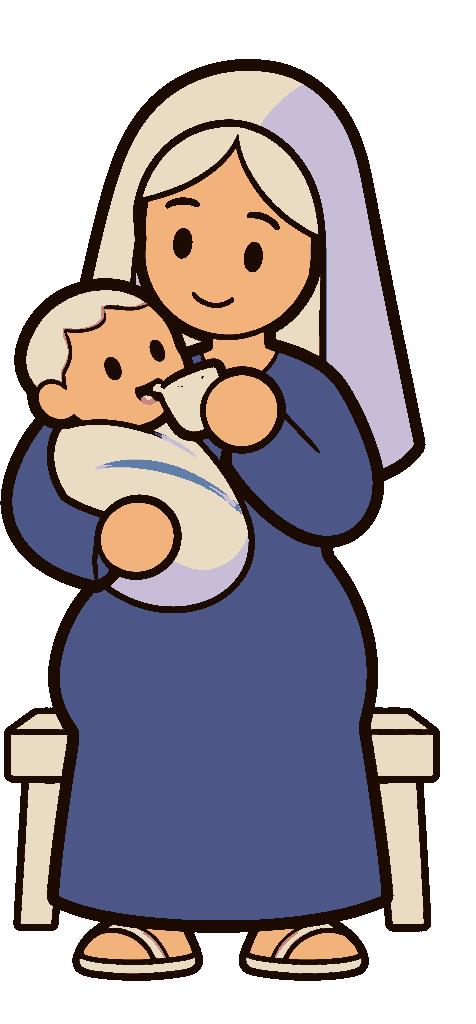
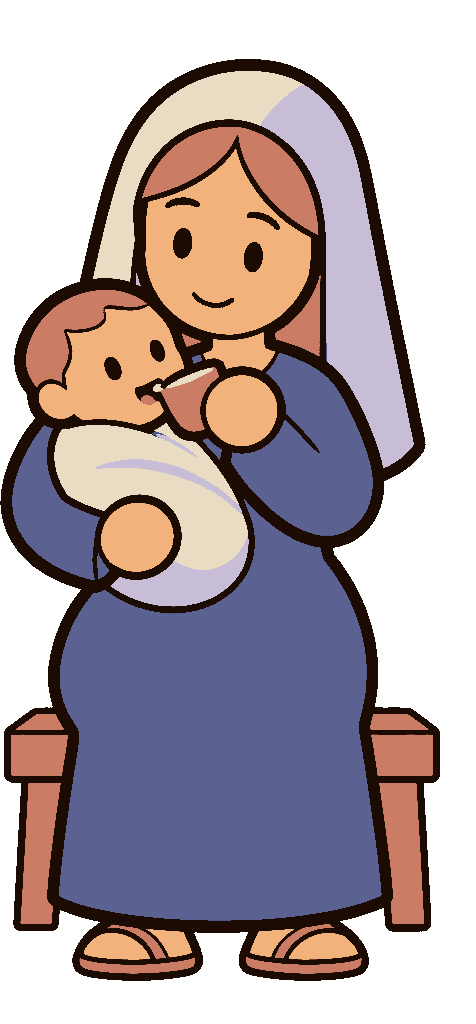
fix(animations): the mother's hair, the baby's hair and her stool take her own terracotta, her dress its drawn blue, and her head share her veil over her bare head, each measured on her sheet; act 1's palettes take a look's hex or a measured paint read again in its box (critique 1, item 2)

diff --git a/apps/animations/src/films/in-its-order/storybook/palettes.test.ts b/apps/animations/src/films/in-its-order/storybook/palettes.test.ts
@@ -1,9 +1,23 @@
 import * as BunServices from '@effect/platform-bun/BunServices';
-import { decodePng } from '@manna/film/tools';
-import { Effect, FileSystem, Option } from 'effect';
-import { describe, expect, it } from 'effect-bun-test';
-import { deltaE, measuredInk, rgbOfHex } from '../../../library/storybook/sheet.ts';
-import { PALETTES } from './palettes.ts';
+import { decodePng, type Raster } from '@manna/film/tools';
+import { Effect, FileSystem, Option, Schema } from 'effect';
+import { describe, expect, it, test } from 'effect-bun-test';
+import {
+  clearBackground,
+  cropOf,
+  deltaE,
+  drawnNearestOf,
+  groundOf,
+  measuredInk,
+  paintsOf,
+  rgbOfHex,
+  snapped,
+  tidiedReport,
+  withProps,
+} from '../../../library/storybook/sheet.ts';
+import { RecordJson } from '../../../library/storybook/store.ts';
+import { SHEET_CELLS } from './cells.ts';
+import { MEASURED, type MeasuredPaint, measureMiss, PALETTES, unsourced } from './palettes.ts';
 import { SHEETS } from './sheets.ts';
 
 /** The film's own roles' folders, then the library's: where a member's `cast-sheet/` lies (`castFolder`'s order). */
@@ -31,26 +45,150 @@ const looksOf = Effect.fn('Act1Palettes.looksOf')(function* (member: string) {
   return looks.join('\n').toLowerCase();
 });
 
+/** A PNG of a member's folder, decoded. */
+const pngIn = Effect.fn('Act1Palettes.pngIn')(function* (member: string, file: string) {
+  const fs = yield* FileSystem.FileSystem;
+  return yield* Effect.fromResult(
+    decodePng(yield* fs.readFile(`${yield* folderOf(member)}/${file}`)),
+  );
+});
+
 describe('act 1 palettes', () => {
   for (const [member, palette] of PALETTES)
     it.effect(
-      `${member}: every paint is a hex its look (or the base its look names) gives, and the ink is measured on the first ref of its first sheet`,
+      `${member}: every paint, and every prop its sheets paint, is a hex its look (or the base its look names) gives or a measured paint, and the ink is measured on the first ref of its first sheet`,
       () =>
         Effect.gen(function* () {
-          const fs = yield* FileSystem.FileSystem;
           const look = yield* looksOf(member);
-          const hexes = palette.parts.flatMap((p) => [
+          const props = SHEETS.filter((s) => s.member === member).flatMap((s) => s.props ?? []);
+          const hexes = [...palette.parts, ...props].flatMap((p) => [
             p.base,
             ...Option.toArray(Option.fromUndefinedOr(p.shade)),
           ]);
-          expect(hexes.filter((h) => !look.includes(h.toLowerCase()))).toEqual([]);
+          expect(unsourced(member, hexes, look, MEASURED)).toEqual([]);
           const first = SHEETS.find((s) => s.member === member)?.refs[0] ?? 'no ref';
-          const kept = yield* Effect.fromResult(
-            decodePng(
-              yield* fs.readFile(`${yield* folderOf(member)}/cast-sheet/views/${first}.png`),
-            ),
-          );
+          const kept = yield* pngIn(member, `cast-sheet/views/${first}.png`);
           expect(deltaE(measuredInk(kept), rgbOfHex(palette.ink))).toBeLessThanOrEqual(2);
         }).pipe(Effect.provide(BunServices.layer)),
     );
+
+  it.effect(
+    'every measured paint reads within ΔE 2 in its box on its own drawing, and is a paint its member takes',
+    () =>
+      Effect.gen(function* () {
+        const misses = yield* Effect.forEach(MEASURED, (m) =>
+          Effect.map(pngIn(m.member, m.source), (drawing) =>
+            Option.toArray(
+              Option.map(
+                measureMiss(drawing, m),
+                (d) => `${m.member} ${m.hex}: ΔE ${d.toFixed(2)}`,
+              ),
+            ),
+          ),
+        );
+        expect(misses.flat()).toEqual([]);
+        const taken = MEASURED.filter((m) => {
+          const props = SHEETS.filter((s) => s.member === m.member).flatMap((s) => s.props ?? []);
+          return ![...(PALETTES.get(m.member)?.parts ?? []), ...props].some(
+            (p) => p.base === m.hex || p.shade === m.hex,
+          );
+        });
+        expect(taken.map((m) => `${m.member} ${m.hex}`)).toEqual([]);
+      }).pipe(Effect.provide(BunServices.layer)),
+  );
+
+  it.effect(
+    "each sheet's props are its record's, and the film draws that sheet with its member's palette and those props",
+    () =>
+      Effect.gen(function* () {
+        const fs = yield* FileSystem.FileSystem;
+        for (const s of SHEETS) {
+          const dir = `${yield* folderOf(s.member)}/shot-sheets/${s.id}`;
+          if (!(yield* fs.exists(`${dir}/record.json`))) continue;
+          const record = yield* Schema.decodeEffect(RecordJson)(
+            yield* fs.readFileString(`${dir}/record.json`),
+          );
+          expect([s.id, record.props ?? []]).toEqual([s.id, s.props ?? []]);
+          const drawn = SHEET_CELLS.get(`${s.member}/${s.id}`);
+          const member = PALETTES.get(s.member);
+          if (drawn && member) expect(drawn.palette).toEqual(withProps(member, s.props ?? []));
+        }
+      }).pipe(Effect.provide(BunServices.layer)),
+  );
+});
+
+describe("the mother's sheet", () => {
+  /** Her first figure's head (hair, face, the baby's head) and the stool's left legs, in her sheet's px. */
+  const BOXES = [
+    { x: 140, y: 60, width: 260, height: 300 },
+    { x: 30, y: 700, width: 90, height: 220 },
+  ] as const;
+
+  it.effect(
+    'splits with no skin pixel repainted past SNAP_RADIUS (critique 1, item 2: her terracotta hair and stool turned cream)',
+    () =>
+      Effect.gen(function* () {
+        const sheet = yield* pngIn('feast-mother', 'shot-sheets/iio-baby/sheet.png');
+        const ground = groundOf(sheet);
+        const paints = paintsOf(PALETTES.get('feast-mother') ?? { ink: '#000000', parts: [] });
+        const far = BOXES.map((box) => {
+          const drawn = clearBackground(cropOf(sheet, box), ground);
+          const nearest = drawnNearestOf(drawn, paints);
+          return tidiedReport(drawn, snapped(drawn, paints, nearest), paints, nearest).skinFar;
+        });
+        expect(far).toEqual([0, 0]);
+      }).pipe(Effect.provide(BunServices.layer)),
+  );
+
+  it.effect(
+    "takes her head share as her head (the veil's peak to the collar) over her bare head (her hair's crown to the collar) on her cup cell, within 0.02, so her face draws at the table's width (critique 1, item 2)",
+    () =>
+      Effect.gen(function* () {
+        const cup = yield* pngIn('feast-mother', 'shot-sheets/iio-baby/cells/cup.png');
+        const head = SHEET_CELLS.get('feast-mother/iio-baby')?.cells['cup']?.head ?? 0;
+        const hair = rgbOfHex('#ca7c65');
+        const rowOf = (hit: (q: number) => boolean) =>
+          Array.from({ length: cup.height }, (_, y) => y).find((y) =>
+            Array.from({ length: cup.width }, (_, x) => y * cup.width + x).some(hit),
+          ) ?? 0;
+        const top = rowOf((q) => (cup.rgba[q * 4 + 3] ?? 0) > 0);
+        const crown = rowOf((q) => hair.every((c, k) => cup.rgba[q * 4 + k] === c));
+        const bare = top + head - (crown - 1);
+        expect(
+          Math.abs((PALETTES.get('feast-mother')?.head ?? 1) - head / bare),
+        ).toBeLessThanOrEqual(0.02);
+      }).pipe(Effect.provide(BunServices.layer)),
+  );
+});
+
+describe('measured paints', () => {
+  /** A 20 × 20 drawing, flat `hex`. */
+  const flat = (hex: string): Raster => {
+    const rgba = new Uint8Array(20 * 20 * 4);
+    for (let q = 0; q < 400; q++) rgba.set([...rgbOfHex(hex), 255], q * 4);
+    return { width: 20, height: 20, rgba };
+  };
+  const paint: MeasuredPaint = {
+    member: 'm',
+    hex: '#ca7c65',
+    source: 'shot-sheets/s/sheet.png',
+    box: { x: 2, y: 2, width: 10, height: 10 },
+    what: 'a test patch',
+  };
+
+  test('a declared measured paint passes: its member takes it, and its box reads it', () => {
+    expect(unsourced('m', ['#CA7C65', '#112233'], 'a look naming #112233', [paint])).toEqual([]);
+    expect(measureMiss(flat('#cb7d66'), paint)).toEqual(Option.none());
+  });
+
+  test('a paint no look gives and no measured paint of its member declares is unsourced', () => {
+    expect(unsourced('m', ['#ca7c65'], 'a look naming #112233', [])).toEqual(['#ca7c65']);
+    expect(unsourced('other', ['#ca7c65'], 'a look naming #112233', [paint])).toEqual(['#ca7c65']);
+  });
+
+  test('a measured paint whose box reads more than ΔE 2 away fails, naming how far', () => {
+    const miss = measureMiss(flat('#d08a70'), paint);
+    expect(Option.isSome(miss)).toBe(true);
+    expect(Option.getOrElse(miss, () => 0)).toBeGreaterThan(2);
+  });
 });

diff --git a/apps/animations/src/films/in-its-order/storybook/palettes.ts b/apps/animations/src/films/in-its-order/storybook/palettes.ts
@@ -1,5 +1,12 @@
-import { Schema } from 'effect';
-import { Palette } from '../../../library/storybook/sheet.ts';
+import { Option, Schema } from 'effect';
+import {
+  type Box,
+  deltaE,
+  measuredPaint,
+  Palette,
+  rgbOfHex,
+} from '../../../library/storybook/sheet.ts';
+import type { Raster } from '@manna/film/tools';
 import FEAST_GUEST_MAN from '../../../library/cast/feast-guest-man/cast-sheet/palette.json' with { type: 'json' };
 import FEAST_GUEST_WOMAN from '../../../library/cast/feast-guest-woman/cast-sheet/palette.json' with { type: 'json' };
 import FILLER_DRESSED from '../../../library/cast/filler-dressed/cast-sheet/palette.json' with { type: 'json' };
@@ -22,3 +29,55 @@ export const PALETTES: ReadonlyMap<string, Palette> = new Map([
   ['feast-mother', decode(FEAST_MOTHER)],
   ['idea-villagers', decode(IDEA_VILLAGERS)],
 ]);
+
+/** A paint a member's palette (or one of its sheets' props) takes that no look gives a hex for: read on the member's own drawing, in a box on a flat patch of it, as the ink is. */
+export interface MeasuredPaint {
+  readonly member: string;
+  readonly hex: string;
+  /** The drawing it is read on, from the member's folder: a drawn sheet (`shot-sheets/<id>/sheet.png`) or a kept view (`cast-sheet/views/<view>.png`). */
+  readonly source: string;
+  readonly box: Box;
+  /** What the drawing paints in it. */
+  readonly what: string;
+}
+
+/** How far (ΔE76) a measured paint may lie from what its box reads now: the ink's bound. */
+export const MEASURE_BOUND = 2;
+
+/** Every measured paint act 1's palettes take, each with the drawing and box it is read in. */
+export const MEASURED: ReadonlyArray<MeasuredPaint> = [
+  {
+    member: 'feast-mother',
+    hex: '#ca7c65',
+    source: 'shot-sheets/iio-baby/sheet.png',
+    box: { x: 186, y: 180, width: 8, height: 20 },
+    what: "her hair (left of her face, first figure); the baby's hair and her stool are drawn the same terracotta",
+  },
+  {
+    member: 'feast-mother',
+    hex: '#5b6190',
+    source: 'shot-sheets/iio-baby/sheet.png',
+    box: { x: 230, y: 640, width: 60, height: 120 },
+    what: "her dress's main colour (her lap, first figure)",
+  },
+];
+
+/** Each of `hexes` a member's palette takes that neither its `look` (lowercased) gives nor one of its `measured` paints declares. */
+export const unsourced = (
+  member: string,
+  hexes: ReadonlyArray<string>,
+  look: string,
+  measured: ReadonlyArray<MeasuredPaint>,
+): ReadonlyArray<string> =>
+  hexes.filter(
+    (h) =>
+      !look.includes(h.toLowerCase()) &&
+      !measured.some((m) => m.member === member && m.hex.toLowerCase() === h.toLowerCase()),
+  );
+
+/** How far a measured paint lies from what its box reads on `drawing`, when past `MEASURE_BOUND`; none when it holds. */
+export const measureMiss = (drawing: Raster, paint: MeasuredPaint): Option.Option<number> =>
+  Option.liftPredicate(
+    deltaE(measuredPaint(drawing, paint.box), rgbOfHex(paint.hex)),
+    (d) => d > MEASURE_BOUND,
+  );

diff --git a/apps/animations/src/films/in-its-order/storybook/cells.ts b/apps/animations/src/films/in-its-order/storybook/cells.ts
@@ -13,7 +13,9 @@ import { CELLS as TODDLER_MILK } from '../../../library/cast/villager-toddler/sh
 import { CELLS as MOTHER_BABY } from '../cast/feast-mother/shot-sheets/iio-baby/cells.ts';
 import { CELLS as VILLAGER_BABY } from '../cast/idea-villagers/shot-sheets/iio-milk-baby/cells.ts';
 import { CELLS as VILLAGER_MILK } from '../cast/idea-villagers/shot-sheets/iio-milk/cells.ts';
+import { withProps } from '../../../library/storybook/sheet.ts';
 import { PALETTES } from './palettes.ts';
+import { sheetNamed } from './sheets.ts';
 
 /** Each drawn sheet's cells module, by `<member>/<sheet>`. */
 const CELLS: ReadonlyArray<readonly [string, string, SheetCells['cells']]> = [
@@ -33,11 +35,12 @@ const CELLS: ReadonlyArray<readonly [string, string, SheetCells['cells']]> = [
   ['villager-child', 'iio-milk', CHILD_MILK],
 ];
 
-/** Every sheet act 1 draws as its film draws it: the member's palette and each cell's PNG and entry, by `<member>/<sheet>`. */
+/** Every sheet act 1 draws as its film draws it: the member's palette with the props the sheet adds, and each cell's PNG and entry, by `<member>/<sheet>`. */
 export const SHEET_CELLS: Sheets = new Map(
   CELLS.flatMap(([member, sheet, cells]) => {
     const palette = PALETTES.get(member);
     if (!palette) return [];
-    return [[`${member}/${sheet}`, { palette, cells }] as const];
+    const props = sheetNamed(member, sheet)?.props ?? [];
+    return [[`${member}/${sheet}`, { palette: withProps(palette, props), cells }] as const];
   }),
 );

diff --git a/apps/animations/src/films/in-its-order/cast/feast-mother/shot-sheets/iio-baby/cells.ts b/apps/animations/src/films/in-its-order/cast/feast-mother/shot-sheets/iio-baby/cells.ts
@@ -5,6 +5,6 @@ import cell2 from './cells/cupBlink.png' with { type: 'file' };
 /** Each cell of this sheet as a film draws it: its PNG, its size in px, its soles’ centre and its head (crown to collar) in px where its lines read one. Written by `storybook draw` and `storybook resplit`. */
 export const CELLS = {
   cup: { png: cell0, size: [476, 1024], ax: 220.5, ay: 981, head: 395 },
-  sip: { png: cell1, size: [512, 1024], ax: 256.5, ay: 981, head: 395 },
-  cupBlink: { png: cell2, size: [478, 1024], ax: 256.5, ay: 981, head: 395 },
+  sip: { png: cell1, size: [512, 1024], ax: 256.5, ay: 981, head: 394 },
+  cupBlink: { png: cell2, size: [478, 1024], ax: 256.5, ay: 981, head: 394 },
 } as const;
